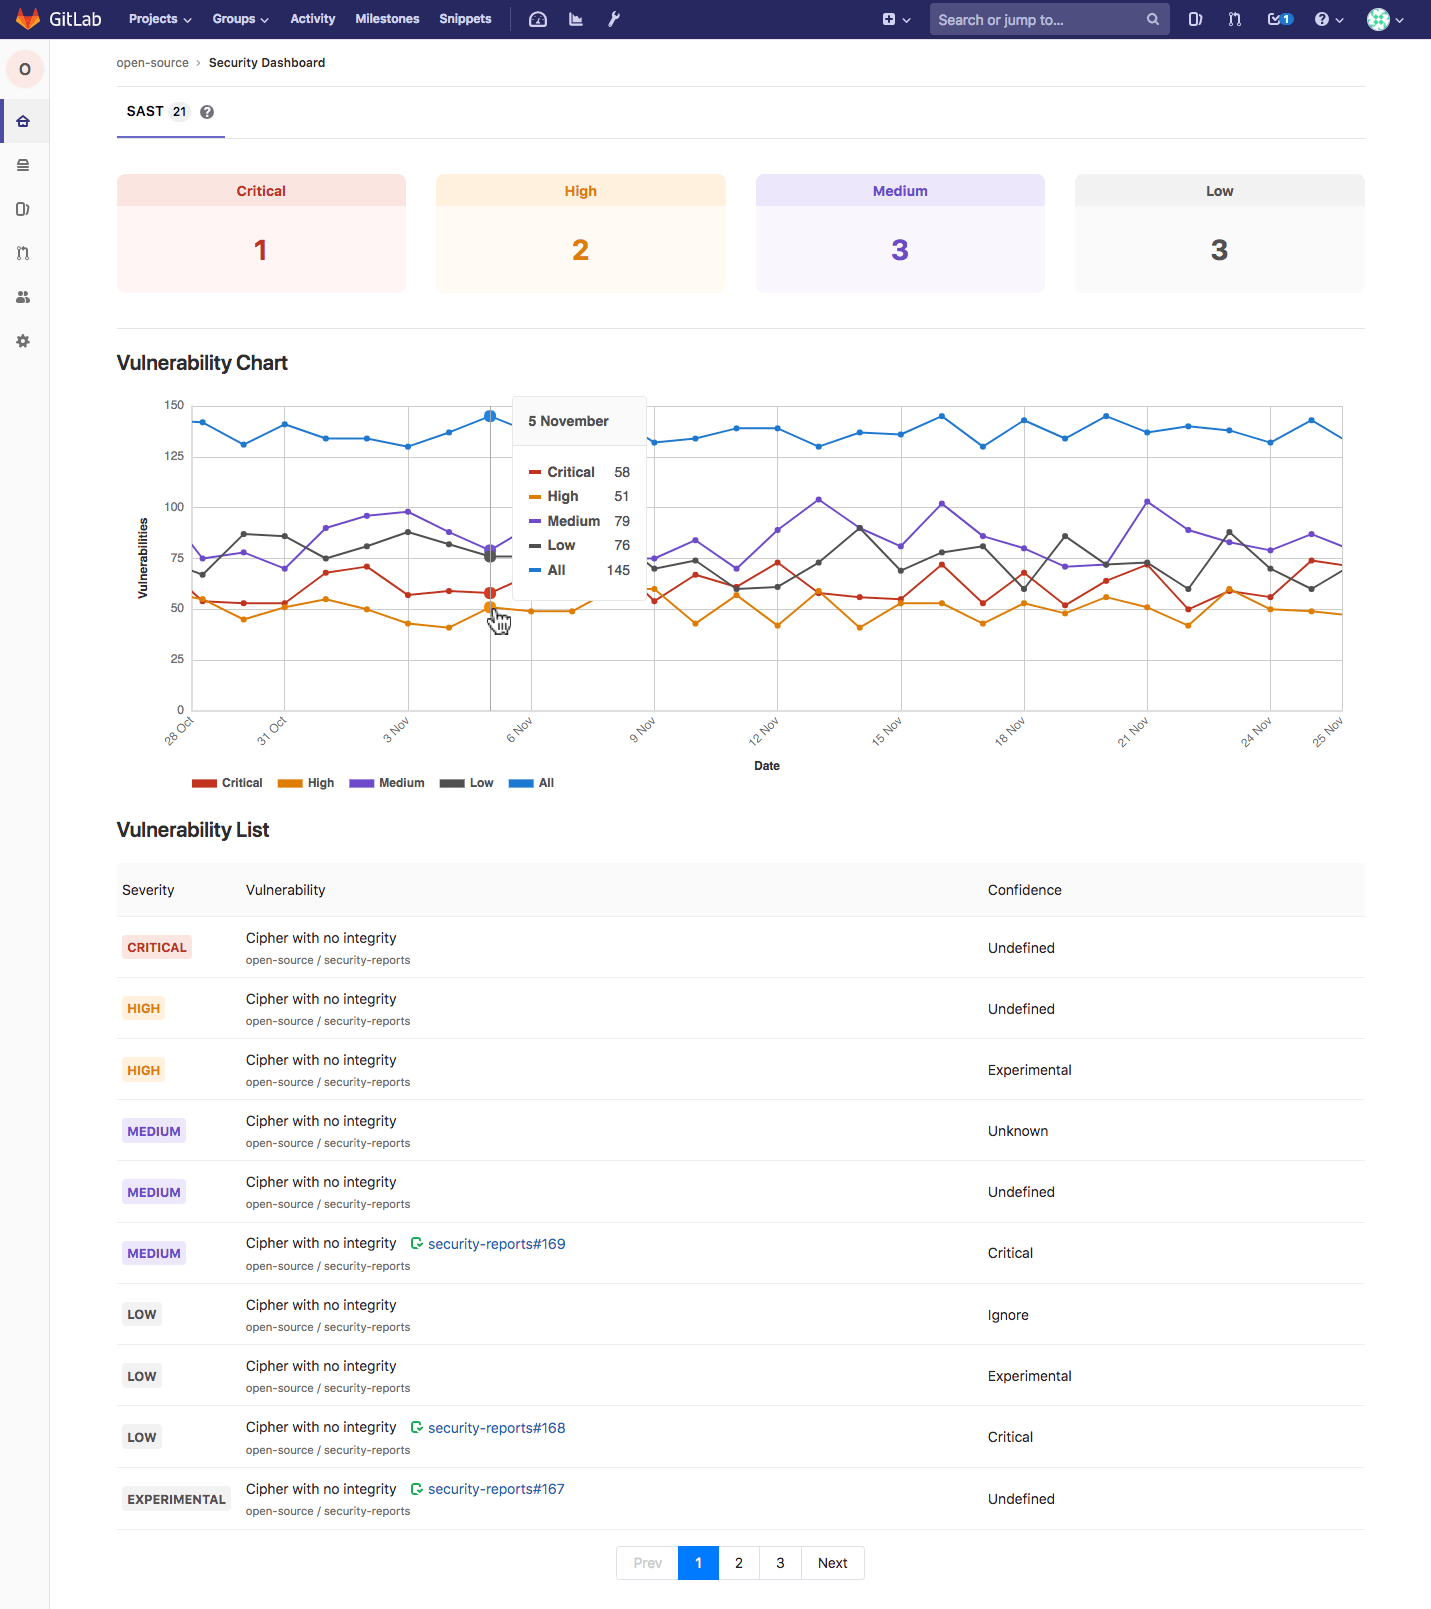
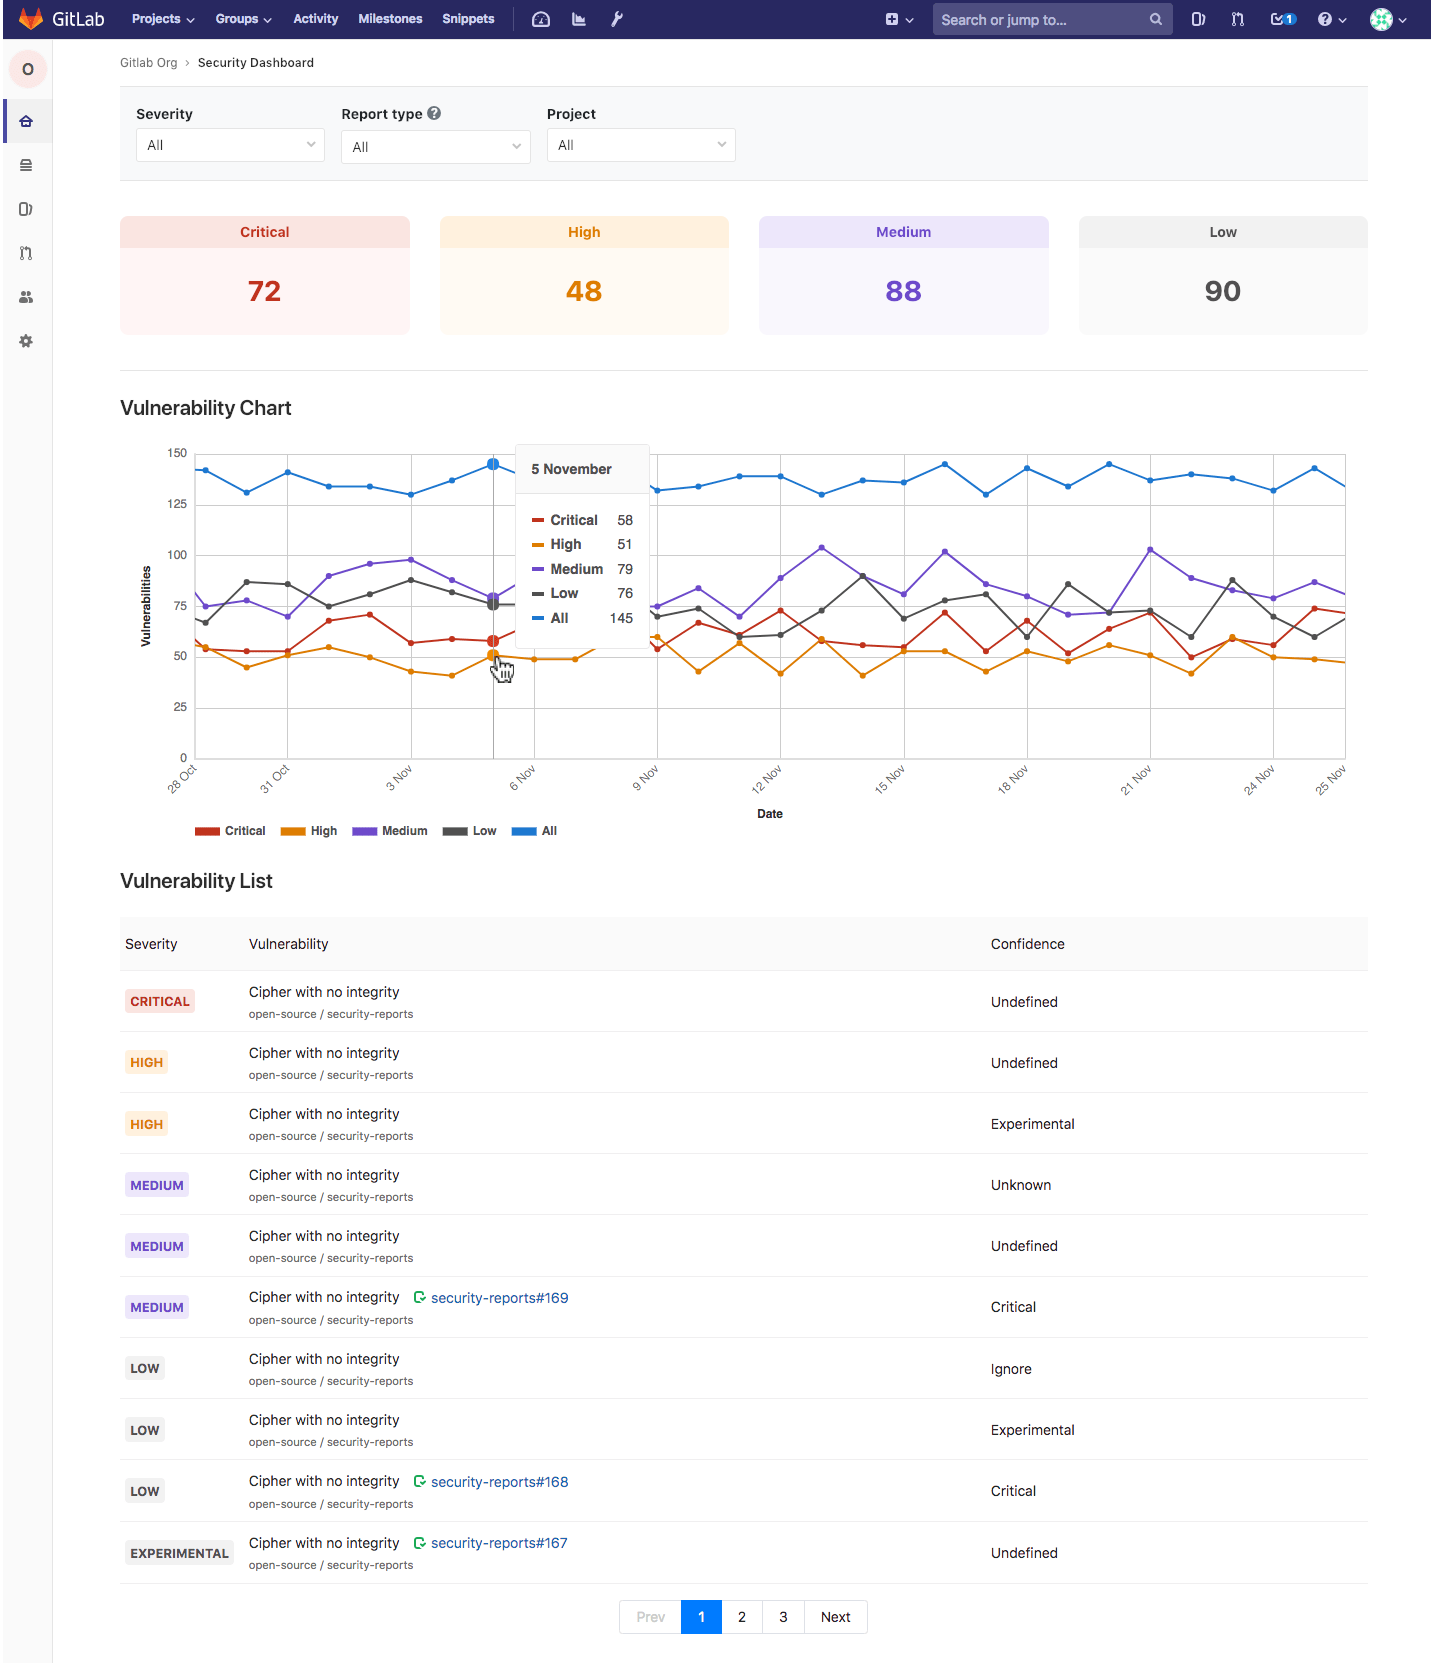
Updates the group security dashboard docs
- Adds references to the dependency scanning features
- Updates the images to reflect the new layout
- Adds a small section about the new filters

diff --git a/doc/user/group/security_dashboard/index.md b/doc/user/group/security_dashboard/index.md
@@ -13,7 +13,7 @@ projects in a group and its subgroups.
 ## Overview
 
 To use the Group Security Dashboard, you need a group that has at least one
-project with [Static Application Security Testing](../../project/merge_requests/sast.md)
+project with [Static Application Security Testing](../../project/merge_requests/sast.md) or [dependency scanning](../../project/merge_requests/dependency_scanning.md)
 enabled.
 
 The Dashboard is a good place to get an overview of the security vulnerabilities in your projects.
@@ -30,14 +30,14 @@ each one separately.
 
 ## Supported features
 
-The group security dashboard supports [SAST](../../project/merge_requests/sast.md) reports.
+The group security dashboard supports [SAST](../../project/merge_requests/sast.md), and [dependency scanning](../../project/merge_requests/dependency_scanning.md) reports.
 
 ## Requirements
 
 To use the group security dashboard:
 
 1. At least one project inside a group must be configured with
-   [Static Application Security Testing](../../project/merge_requests/sast.md).
+   [Static Application Security Testing](../../project/merge_requests/sast.md), or [dependency scanning](../../project/merge_requests/dependency_scanning.md).
 2. The configured jobs must use the [new `reports` syntax](../../../ci/yaml/README.md#artifactsreports) (see an [example job](../../../ci/examples/sast.md)).
 3. [GitLab Runner](https://docs.gitlab.com/runner/) 11.5 or above must be used to execute the jobs.
 
@@ -55,7 +55,9 @@ are created even if no code change happens.
 First, navigate to the Security Dashboard found under your group's
 **Overview > Security Dashboard**.
 
-Once you're on the dashboard, on the top you should see an overview of all the
+Once you're on the dashboard, on the top you should see a series of filters for,
+severity, report type, and project. Selecting one or more of these will filter
+the results in the sectons below. The first section is an overview of all the
 vulnerabilities, grouped by severity. Underneath these overviews is a timeline
 chart that shows how many open vulnerabilities you had at various points in time.
 You can hover over the chart to get more details about the open vulnerabilities
